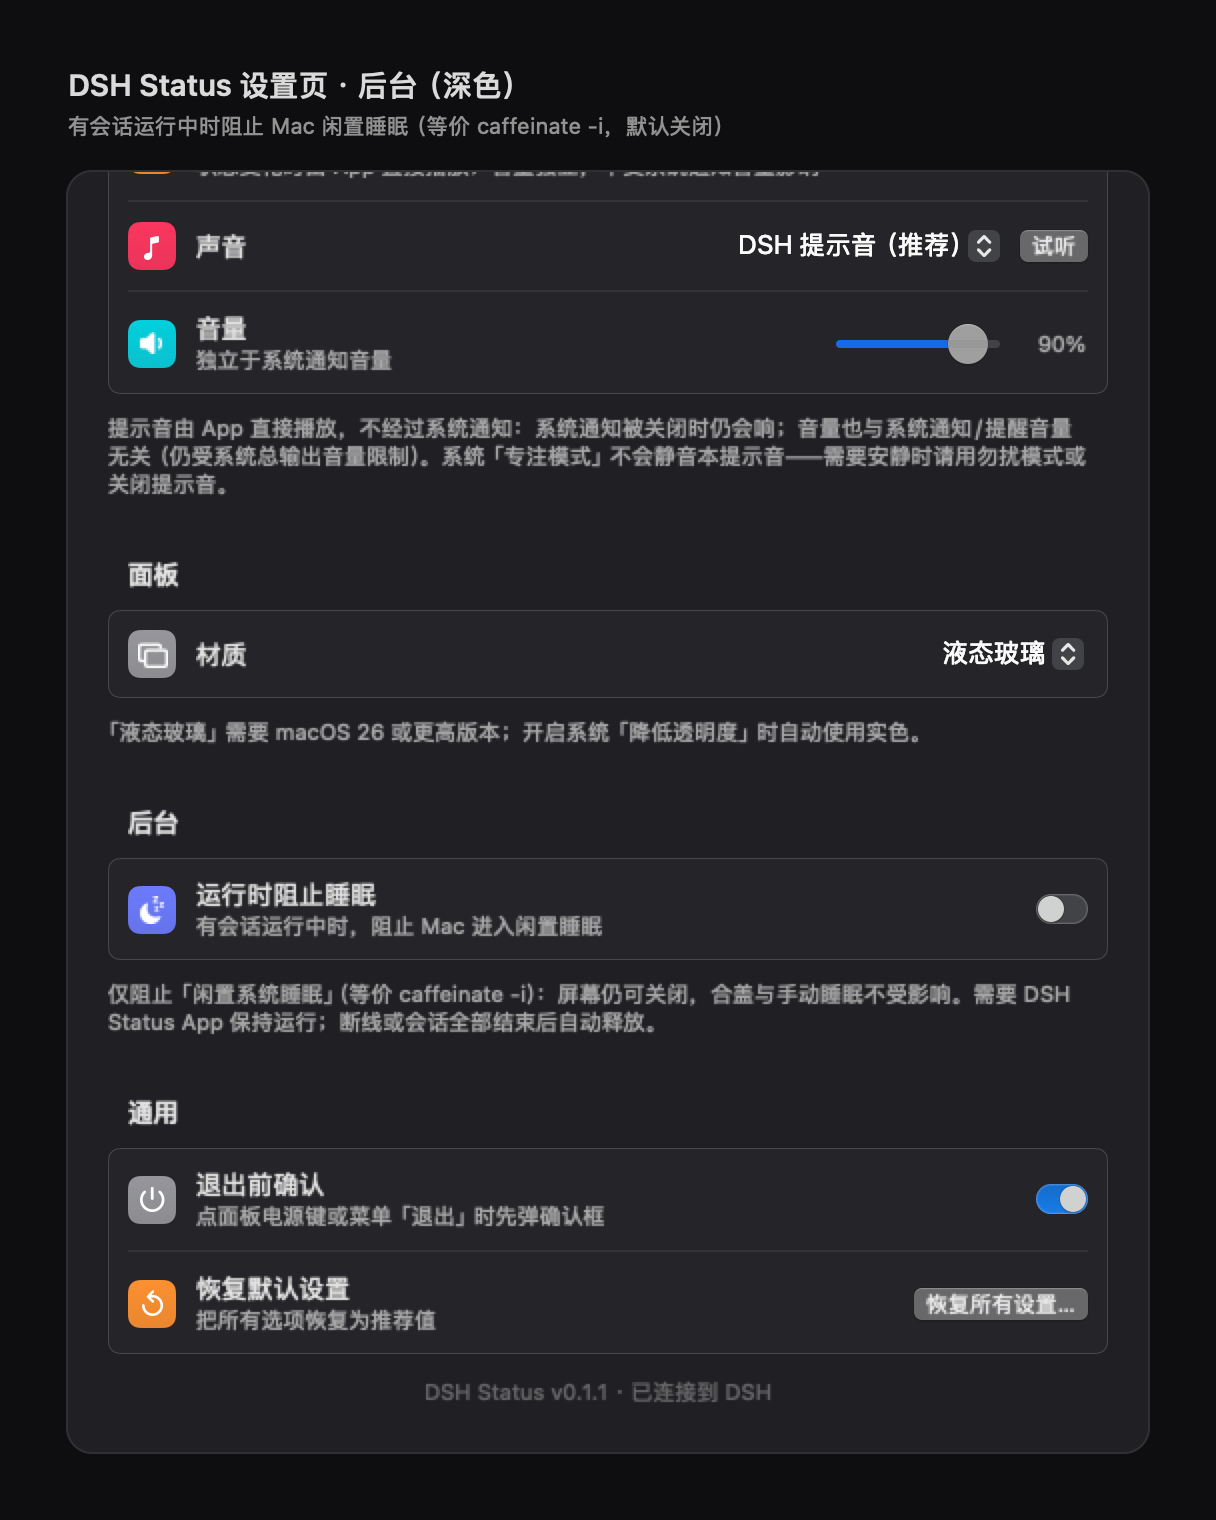
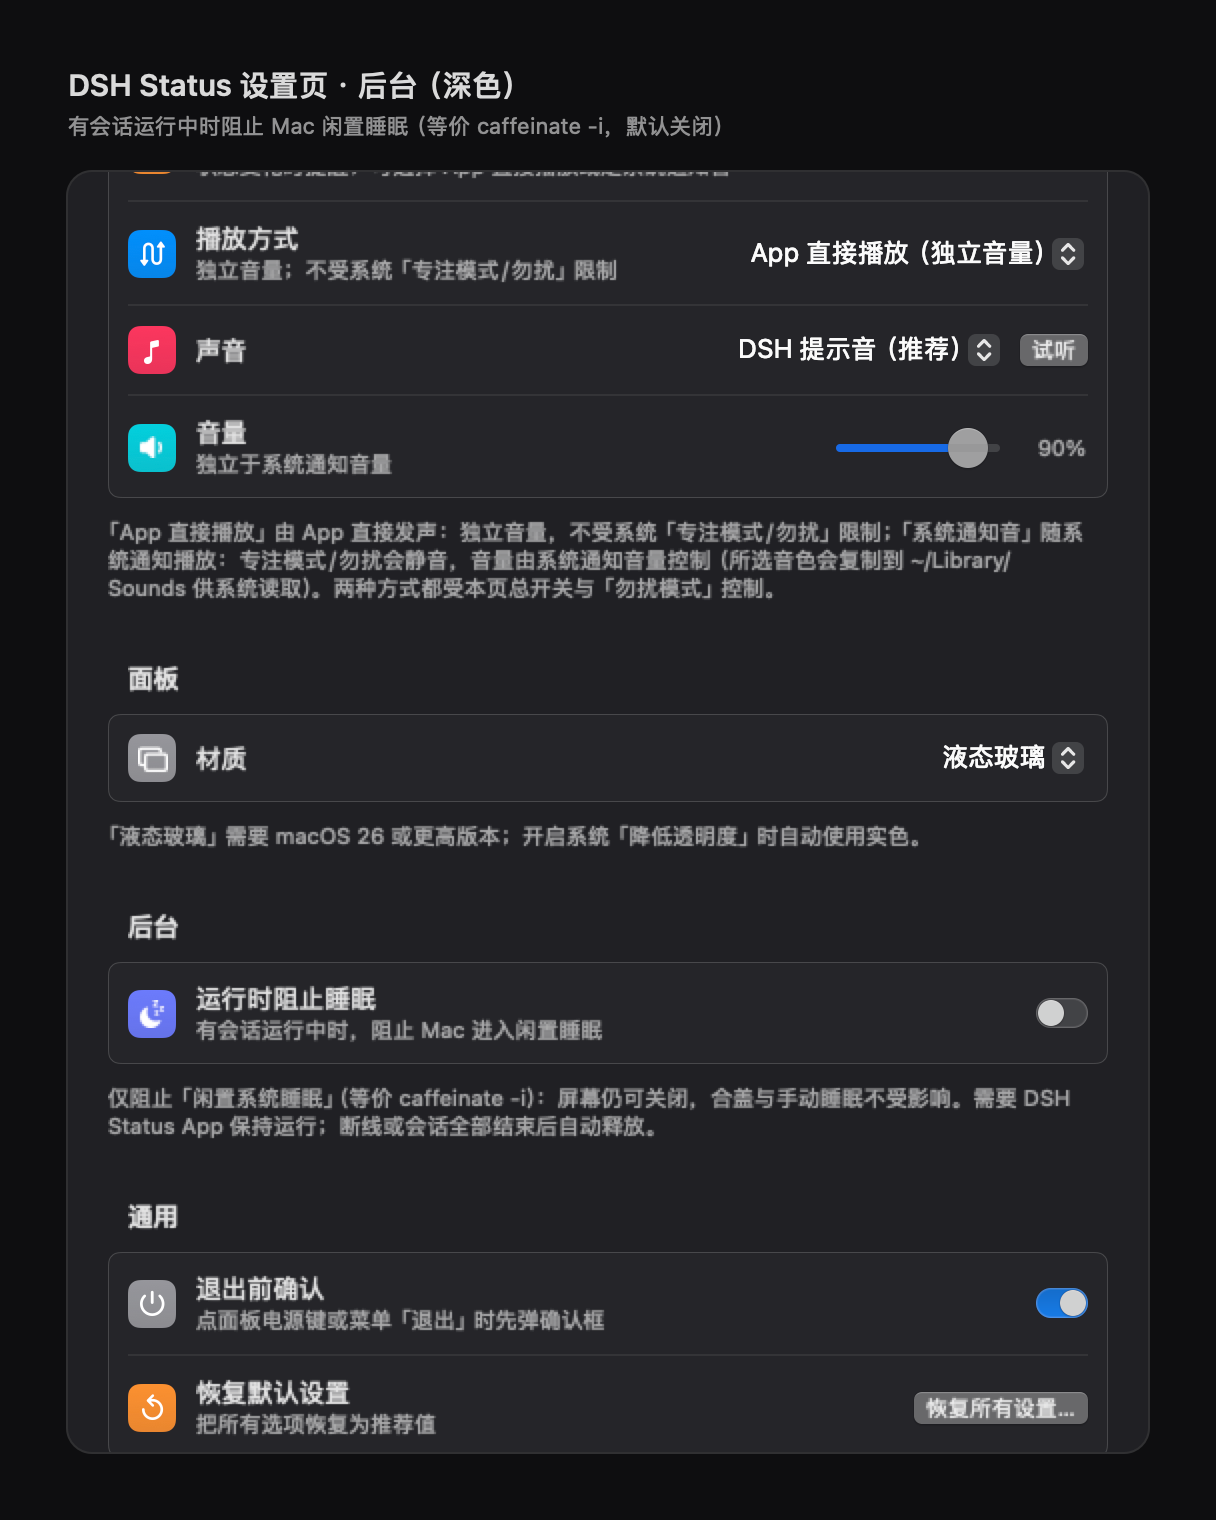
docs(sound): 同步「系统通知音」送达方式与合并后预览
- README / app/README：提示音播放方式二选一（App 直接播放 / 系统通知音），
  系统方式受专注模式/勿扰与通知音量管理、音色落地 ~/Library/Sounds、试听发真实通知
- docs/app-design.md：§4.2 设置表新增「播放方式」，§6.2 重写为两种送达方式
  （通道语义、系统音落地/清理、试听、取舍），§7 调试入口与文件说明，§8 验收
- docs/ui-redesign-spec.md：§3 提示音分区行补充播放方式/系统方式 UI
- docs/previews/README.md：提示音分区图说明更新
- 重出 settings-background-preview-{dark,light}（合并后提示音分区增高，
  后台分区在滚动图中的裁切位置随之变化；内容无错位，其余预览逐字节一致）
- STATUS：本轮结论 + 与后台功能合并说明

diff --git a/docs/app-design.md b/docs/app-design.md
@@ -169,9 +169,10 @@
 | | 勿扰模式 | 总开关：静音全部系统通知**与提示音**（保留下面三项）；面板底部月亮同步 |
 | | 待回答（推荐）/ 已完成 / 已停止 | 默认只开待回答；三个开关同时决定「弹横幅」与「播提示音」 |
 | 提示音 | 播放提示音 | 总开关（默认开）；关掉只发横幅、不发声 |
-| | 声音 | 默认「DSH 提示音」；另有 8 个 macOS 系统声音 / 自定义音频文件 / 静音；右侧「试听」 |
-| | 音量 | 0–100% **独立音量**（默认 90%），与系统通知/提醒音量无关 |
-| | 自定义音频 | 仅在选择「自定义音频文件…」时出现；选择后立即试听，路径持久化 |
+| | 播放方式 | App 直接播放（默认，独立音量）/ 系统通知音（跟随系统专注模式与通知音量）；副标题随选择说明 |
+| | 声音 | 默认「DSH 提示音」；另有系统默认通知音（仅系统方式）/ 8 个 macOS 系统声音 / 自定义音频文件 / 静音；右侧「试听」 |
+| | 音量 | App 方式：0–100% **独立音量**（默认 90%）；系统方式：禁用并显示「系统」（由系统通知音量控制） |
+| | 自定义音频 | 仅在选择「自定义音频文件…」时出现；选择后立即试听，路径持久化；系统方式下会复制到 `~/Library/Sounds` |
 | 面板 | 材质 | 液态玻璃（macOS 26+ 默认）/ 经典磨砂 / 实色 |
 | 后台 | 运行时阻止睡眠 | 默认关；有会话运行中时阻止 Mac 闲置睡眠（等价 `caffeinate -i`） |
 | 通用 | 退出前确认 | 点面板电源键或右键「退出」时先弹确认框 |
@@ -226,27 +227,37 @@
 - **勿扰模式**（面板月亮 / 设置页开关，持久化）：开启时不弹任何系统通知、也不播提示音，单项开关配置原样保留，
   关闭后按原配置恢复。菜单栏图标与面板列表不受勿扰影响。
 
-### 6.2 提示音（2026-11-08，独立于系统通知）
+### 6.2 提示音（2026-11-08；2026-11-09 增加「系统通知音」送达方式）
 
-- **为什么不用 `UNNotificationSound`**：macOS 通知音无法设音量（由系统「提醒音量/通知音量」决定），
-  系统音本身峰值也偏低（实测 Glass 峰值 ≈0.20、Hero ≈0.53），这正是用户反馈「提示音太不明显」的根因。
-- **做法**：`content.sound = nil`，由 `NotificationSoundPlayer`（新增 `NotificationSound.swift`）用
-  `NSSound` 直接播放 App 内音频，音量由 `NSSound.volume` 独立控制（0…1）。
+- **背景**：用户先反馈「系统默认提示音太不明显」，需要独立音量与更明显的默认音色；随后又希望
+  「可以走系统声音、受系统勿扰模式管理，同时也能用自定义声音」。两者是不同通道，故做成**二选一**。
+- **送达方式**（`SoundDeliveryMode`，设置页「提示音 → 播放方式」，默认 `app`）：
+  - **`app`（App 直接播放，默认）**：`content.sound = nil`，由 `NotificationSoundPlayer`（`NotificationSound.swift`）
+    用 `NSSound` 直接播放；音量由 `NSSound.volume` 独立控制（`dshStatus.soundVolume`，默认 0.9）。
+    与系统通知音量无关、不受专注模式静音；系统通知被关闭时仍会响；横幅被系统权限拦掉也照样响。
+    受系统总输出音量上限约束（系统级物理上限，App 无法越过）。
+  - **`system`（系统通知音）**：`content.sound = UNNotificationSound`，声音随系统通知播放，
+    **受系统「专注模式/勿扰」与通知音量控制**（`~/Library/Sounds` 复制方案见下）；App 内音量滑杆禁用
+    （显示「系统」），设置页「试听」在系统方式下发一条真实测试通知（横幅+声音，与正式提醒一致）。
+- **音色选项**（两种方式共用，`NotificationSoundOption`）：
   - 内置默认音 **DSH 提示音**：`app/Resources/dsh-chime.wav`，A5–C#6–E6 三音上行琶音、峰值 0.92
     （≈系统 Glass 的 4.6 倍），由 `scripts/generate-dsh-chime.py` 生成；`scripts/build-app.sh` 打进
     `Contents/Resources`，并用 `--self-test-sound` 校验打包结果。
-  - 可选 8 个 `/System/Library/Sounds/*.aiff` 系统声音；自定义文件走 `NSOpenPanel`（`UTType.audio`），
-    路径存 UserDefaults（App 未沙盒化，直接绝对路径即可）；「静音」选项完全不发声。
-  - 音量设置独立持久化（`dshStatus.soundVolume`，默认 0.9），与系统通知音量/提醒音量无关；
-    受系统总输出音量上限约束（这是系统级物理上限，App 无法越过）。
-- **触发时机**：与通知完全相同——`onStatusTransition` 里对应状态开关打开、勿扰关闭时播放，
-  与横幅互不依赖（横幅被系统权限拦掉也照样响）；提示音不做 30s 去重（每次真实状态跃迁都提醒），
-  但 0.4s 内的多次跃迁合并成一次（同一帧多个会话一起完成时不会叠成一片）。
-- **不受系统专注模式静音**：macOS「专注」只静音系统通知，不会静音 App 直接播放的音频；
-  这是「更明显」的代价——需要安静时应使用本 App 的勿扰模式（同时静音通知与提示音）或关闭提示音。
-  不做专注模式检测：读取 Focus 状态属私有接口、且与「更明显」的产品目标冲突。
-- **验收入口**：`DSHStatusBar --self-test-sound`（资源/选项解析/音量夹取/设置持久化，构建时自动跑）、
-  `DSHStatusBar --test-sound[=<option>,<volume>]`（单独试听，播完自动退出）。
+  - 8 个 `/System/Library/Sounds/*.aiff` 系统声音；**系统默认通知音**（仅系统方式可选，`UNNotificationSound.default`）；
+    自定义文件走 `NSOpenPanel`（`UTType.audio`，路径存 UserDefaults，App 未沙盒化）；
+    「静音」选项完全不发声。
+- **系统方式的音频落地**：`UNNotificationSound(named:)` 只查 App bundle 与 `~/Library/Sounds`，
+  因此内置音 / 系统声音 / 自定义文件都会复制成
+  `~/Library/Sounds/dsh-status-<option>-<size>-<mtime>.<ext>` 后用文件名引用；源文件变化会自动重新落地，
+  同时清理旧的 `dsh-status-*` 文件（`SystemNotificationSound.stage`）。
+- **触发时机**：与通知完全相同——`onStatusTransition` 里对应状态开关打开、勿扰关闭时提醒；
+  App 播放方式下不做 30s 去重（每次真实状态跃迁都提醒），但 0.4s 内的多次跃迁合并成一次；
+  系统方式下声音随横幅一起由系统处理（通知 30s 去重同样作用于声音）。
+- **取舍**：App 方式「更明显」但绕过系统专注模式（需要安静时用本 App 勿扰）；系统方式统一交给系统管理，
+  但音量不可控、通知权限关闭时不响。不做 Focus 状态检测（私有接口），用送达方式让用户选择。
+- **验收入口**：`DSHStatusBar --self-test-sound`（资源/选项解析/音量夹取/两种送达方式/落地幂等/设置持久化，
+  48 项，构建时自动跑）；`DSHStatusBar --test-sound[=<option>,<volume>[,<customPath>]]` +
+  `DSH_STATUS_SOUND_DELIVERY=app|system`（单独试听并打印实际通道/落地路径，播完自动退出）。
 
 ## 7. App 结构（Swift Package，无第三方依赖）
 
@@ -269,7 +280,7 @@ app/
     Settings.swift              // AppSettings（UserDefaults）+ 设置页 SwiftUI（grouped Form）
     SettingsWindow.swift        // 设置窗口 chrome（标准 NSWindow / frame autosave）
     NotificationManager.swift   // 通知权限与横幅发送（通知音交给 NotificationSound）
-    NotificationSound.swift     // 提示音：选项 / NSSound 播放器 / 独立音量 / --self-test-sound 自检
+    NotificationSound.swift     // 提示音：送达方式 / 音色选项 / NSSound 播放器 / 系统通知音落地 / 自检
     Theme.swift                 // 设计 token（系统语义色 / 尺寸 / hover）
     PreviewRenderer.swift       // 离屏预览图（图标矩阵 / 面板 / 场景 / 设置页）
 ```
@@ -280,7 +291,9 @@ app/
   - `--open-panel` / `--open-settings`：启动后自动打开面板/设置（截图/调试）。
   - `--animate-subagents`：打开面板 → 展开 → 收起第一个有子智能体的会话，用于逐帧核对高度动画。
   - `--test-icon-transitions[=<起始步>,<步数>]`：脚本化回放全部图标状态迁移（每步打印时间线并自动退出）。
-  - `--test-sound[=<option>,<volume>]`：按指定选项/音量试听提示音后退出（默认用当前设置）。
+  - `--test-sound[=<option>,<volume>[,<customPath>]]`：按指定选项/音量试听提示音后退出（默认用当前设置）。
+  - `DSH_STATUS_SOUND_DELIVERY=app|system`：`--test-sound` 时强制送达方式（验收两种通道用）。
+  - `DSH_STATUS_SETTINGS_SOUND_DELIVERY=app|system` / `_SOUND_OPTION=<option>`：离屏设置页预览时覆盖提示音状态。
   - `--self-test-sound`：提示音自检（资源打包 / 选项解析 / 音量映射 / 设置持久化），无音频硬件依赖。
   - `DSH_STATUS_SETTINGS_PREVIEW_HEIGHT=<pt>`：设置页离屏预览的高度覆盖（默认 640；调试出完整长页用）。
   - `DSH_STATUS_ANIM_SCALE=<倍数>`：面板高度动画与图标状态过渡放慢 N 倍（默认 1），配合截屏逐帧核对。
@@ -297,8 +310,11 @@ app/
 3. 连 mock 桥时图标数字/颜色随状态变化，面板分组正确，点行会 POST 命令并打开 DSH。
 4. 断开 mock 后 6s 内进入未连接态；mock 恢复后自动重连。
 4.1 提示音：`--self-test-sound` 全 PASS（构建脚本自动跑）；设置页「试听」可听、音量滑块 0/50/100% 有明显差别；
-   关闭「播放提示音」后不发声；系统通知权限关闭时提示音仍响（勿扰开启时两者都静音）；
-   同一帧多个会话跃迁只响一次；系统专注模式不影响提示音（文档已说明取舍）。
+   关闭「播放提示音」后不发声；系统通知权限关闭时 App 方式仍响、系统方式不响（勿扰开启时两者都静音）；
+   同一帧多个会话跃迁只响一次（App 方式）；系统专注模式不影响 App 方式提示音（文档已说明取舍）。
+4.2 提示音送达方式：切到「系统通知音」后，音量行禁用并显示「系统」；选择各音色/自定义文件后
+   `~/Library/Sounds/dsh-status-*` 出现落地文件，`log stream` 可见 usernoted `hasSound:true` 与
+   NotificationCenter「Playing notification sound { nam: dsh-status-... }」；系统「专注模式」下声音被系统静音。
 5. 图标状态切换：`--test-icon-transitions` 逐条回放，默认速度 60fps 无跳变；`DSH_STATUS_ANIM_SCALE=3` +
    `scripts/capture-icon-transitions.sh` 逐帧捕获后，环覆盖角/彗星半径单调、数字不横移、过渡结束帧 = 稳态帧；
    规范见 [icon-transitions.md](icon-transitions.md)。

diff --git a/README.md b/README.md
@@ -45,16 +45,20 @@
     footer 一行 = 连接状态点 + 设置 / 勿扰 / 退出；面板打开时状态项系统原生高亮；
     通知未授权时面板顶部可操作提示。
   - 勿扰：面板底部月亮按钮（总开关，持久化）；开启时静音全部系统通知**与提示音**，设置页单项开关保留。
-  - **提示音（2026-11-08）**：设置页新增「提示音」分区，**独立于系统通知**的 App 内提示音——
+  - **提示音（2026-11-08；2026-11-09 新增「系统通知音」送达方式）**：设置页「提示音」分区——
     默认「DSH 提示音」（三音上行琶音，峰值约为系统 Glass 的 4.6 倍，见 `app/Resources/dsh-chime.wav`），
-    另可选 8 个 macOS 系统声音 / 自定义音频文件（WAV·AIFF·MP3·M4A·CAF）/ 静音；
-    **0–100% 独立音量滑块** + 「试听」按钮，改完立即生效。
-    声音由 App 用 `NSSound` 直接播放（`content.sound = nil`，不走系统通知音），因此
-    **系统通知被关闭时提示音仍会响**、音量不受系统「通知音量/提醒音量」限制（仍受系统总输出音量限制）；
-    **系统「专注模式」也不会静音它**（App 直接播放的不是系统通知音）——需要安静时用本 App 勿扰或关闭提示音；
-    与通知共用「待回答 / 已完成 / 已停止」三个状态开关，勿扰模式同时静音两者；同帧多个会话跃迁合并为一次提示音。
-    默认：开启、DSH 提示音、音量 90%。自检：`--self-test-sound`（构建时自动跑）、
-    `--test-sound[=<选项>,<音量>]`（单独试听并退出）。
+    另可选 8 个 macOS 系统声音 / 系统默认通知音 / 自定义音频文件（WAV·AIFF·MP3·M4A·CAF）/ 静音，
+    右侧「试听」即时试听。**播放方式二选一**：
+    ① **App 直接播放（默认）**：App 内 `NSSound` 直接发声，**0–100% 独立音量**（默认 90%）、
+      不受系统「通知音量/提醒音量」限制；系统通知被关闭时仍会响；系统「专注模式」也不会静音它
+      （需要安静时用本 App 勿扰或关闭提示音）；
+    ② **系统通知音**：声音随系统通知播放，**跟随系统专注模式/勿扰与通知音量**（App 内音量滑杆禁用、
+      显示「系统」）；所选音色（含自定义文件）会复制到 `~/Library/Sounds` 供系统读取，
+      适合想统一交给系统勿扰管理的场景。系统方式下「试听」会发一条真实测试通知。
+    两种方式都与通知共用「待回答 / 已完成 / 已停止」三个状态开关，勿扰模式同时静音两者；
+    App 播放方式下同帧多个会话跃迁合并为一次提示音。默认：开启 / App 直接播放 / DSH 提示音 / 90%。
+    自检：`--self-test-sound`（构建时自动跑，48 项）；`--test-sound[=<选项>,<音量>[,<自定义路径>]]`
+    （配合 `DSH_STATUS_SOUND_DELIVERY=app|system` 验收两种通道）。
   - **后台：运行时阻止睡眠（2026-11-09）**：设置页新增「后台」分区，**默认关闭**；开启后只要 DSH 还有
     **运行中的顶层会话**，App 就申请 `PreventUserIdleSystemSleep` 电源断言（等价 `caffeinate -i`），
     阻止 Mac 进入**闲置睡眠**——屏幕仍可关闭，合盖 / 手动睡眠不受影响；断线、会话全部结束、关闭开关

diff --git a/docs/ui-redesign-spec.md b/docs/ui-redesign-spec.md
@@ -116,9 +116,10 @@
 | 通知 | 系统通知状态 | 状态文字 / 「允许通知」/「打开系统设置」按钮 |
 | | 勿扰模式 | Switch（总开关：静音全部通知与提示音；下面三项保留） |
 | | 待回答（推荐）/ 已完成 / 已停止 | Switch（同时决定是否播放提示音） |
-| 提示音 | 播放提示音 | Switch（副标题说明：App 直接播放、独立音量） |
-| | 声音 | Picker（DSH 提示音 / 8 个系统声音 / 自定义音频文件… / 静音）+ 「试听」bordered 小按钮 |
-| | 音量 | Slider 0–100% + 等宽数字百分比（与系统通知音量独立） |
+| 提示音 | 播放提示音 | Switch |
+| | 播放方式 | Picker：App 直接播放（独立音量）/ 系统通知音（跟随专注模式）；副标题随选择说明 |
+| | 声音 | Picker（DSH 提示音 / 系统默认通知音* / 8 个系统声音 / 自定义音频文件… / 静音）+ 「试听」bordered 小按钮（*仅系统通知音方式可选） |
+| | 音量 | App 方式：Slider 0–100% + 等宽百分比；系统方式：禁用并显示「系统」 |
 | | 自定义音频 | 仅 `.custom` 时出现：文件名/缺失提示 + 「选择文件…」bordered 小按钮 |
 | 面板 | 材质 | Picker（液态玻璃 / 经典磨砂 / 实色；低版本自动隐藏液态玻璃） |
 | 后台 | 运行时阻止睡眠 | Switch（默认关；有会话运行中时阻止 Mac 闲置睡眠，副标题显示当前是否生效） |
@@ -131,7 +132,7 @@
 - 删除旧底部固定栏（「恢复默认」按钮 + checkbox + 版本）与重复副标题
   （picker 行不再同时用副标题和控件显示同一个值，说明文字放分区脚注）。
 - 所有设置项保持即时生效 + UserDefaults 持久化；`AppSettings` 公开 API 不变（2026-11-08 新增提示音属性：
-  `soundEnabled` / `soundOption` / `soundVolume` / `soundCustomPath`；2026-11-09 新增
+  `soundEnabled` / `soundDelivery` / `soundOption` / `soundVolume` / `soundCustomPath`；2026-11-09 新增
   `preventSleepWhileRunning`）。
 - 提示音分区沿用同一行结构；声音 Picker 选到「自定义音频文件…」时直接弹 `NSOpenPanel`（`UTType.audio`），
   取消则回退到上一个音色。提示音的实现与取舍见 [app-design.md §6.2](app-design.md)。

diff --git a/app/README.md b/app/README.md
@@ -31,7 +31,8 @@ DSH_STATUS_BRIDGE_FILE="$HOME/.dsh-status/bridge.mock.json" \
 - `DSH_STATUS_APPEARANCE=light|dark`：强制界面外观（仅调试/出图，不改系统设置）
 - `--render-previews <dir>`：离屏生成全部设计预览图
 - `--render-app-icon <path>`：生成 1024pt App 图标 PNG
-- `--test-sound[=<option>,<volume>]`：单独试听提示音后退出（`option` 如 `dshChime` / `glass` / `none`）
+- `--test-sound[=<option>,<volume>[,<customPath>]]`：单独试听提示音后退出（`option` 如 `dshChime` / `glass` / `systemDefault` / `none`）；
+  送达方式默认跟随设置，可用 `DSH_STATUS_SOUND_DELIVERY=app|system` 覆盖
 - `--self-test-sound`：提示音自检（构建脚本自动跑；无音频硬件依赖）
 
 设置入口：面板底部齿轮按钮，或右键菜单栏图标 →「设置…」（⌘,）。设置即时生效并保存在 UserDefaults。
@@ -57,6 +58,6 @@ DSH_STATUS_BRIDGE_FILE="$HOME/.dsh-status/bridge.mock.json" \
 - `SettingsWindow.swift` — 设置窗口 chrome（标准 NSWindow / frame autosave）
 - `PreviewRenderer.swift` — 离屏预览图
 - `NotificationManager.swift` — 待回答/已完成/已停止系统通知（横幅；不播放系统通知音）
-- `NotificationSound.swift` — 提示音：音色选项 / NSSound 播放器 / App 内独立音量 / `--self-test-sound`
+- `NotificationSound.swift` — 提示音：送达方式（App 直接播放 / 系统通知音）/ 音色选项 / NSSound 播放器 / 系统通知音落地 / `--self-test-sound`
 - `Theme.swift` — 设计 token：系统语义色/状态色、尺寸、hover；菜单栏图标专用调色板
 - `Settings.swift` — 设置模型（UserDefaults 持久化）+ SwiftUI 设置页（原生 grouped Form）

diff --git a/docs/previews/README.md b/docs/previews/README.md
@@ -27,7 +27,7 @@
 | `panel-real-idle-hover-dark.png` | 同上，鼠标悬停态：高亮底色铺满整块内容区（圆角 12），说明点哪里都有效 |
 | `scene-preview-dark.png` / `scene-preview-light.png` | 场景示意（离屏渲染，菜单栏 + 打开的面板；外壳圆角与真机同为 16pt continuous） |
 | `settings-preview-dark.png` / `settings-preview-light.png` | 设置页（离屏渲染，深/浅）：原生 grouped Form 的八个分区（窗口默认高度下可见前三个） |
-| `settings-sound-preview-dark.png` / `settings-sound-preview-light.png` | **提示音分区（2026-11-08 新增，离屏渲染）**：通知 → 提示音；App 内独立播放 + 独立音量、可选音色/自定义文件、勿扰同时静音 |
+| `settings-sound-preview-dark.png` / `settings-sound-preview-light.png` | **提示音分区（2026-11-08 新增；2026-11-09 加「播放方式」，离屏渲染）**：通知 → 提示音；播放方式（App 直接播放 / 系统通知音）、音色/自定义文件、音量、勿扰同时静音 |
 | `settings-background-preview-dark.png` / `settings-background-preview-light.png` | **后台分区（2026-11-09 新增，离屏渲染）**：面板 → 后台 → 通用；「运行时阻止睡眠」默认关，开启后有会话运行中时阻止 Mac 闲置睡眠 |
 | `settings-real-dark.png` | 设置窗口真机截图（深色，540×640 标准 NSWindow） |
 | `ui-before-after-dark.png` | 改版前后对照（面板 + 设置窗口，深色） |
